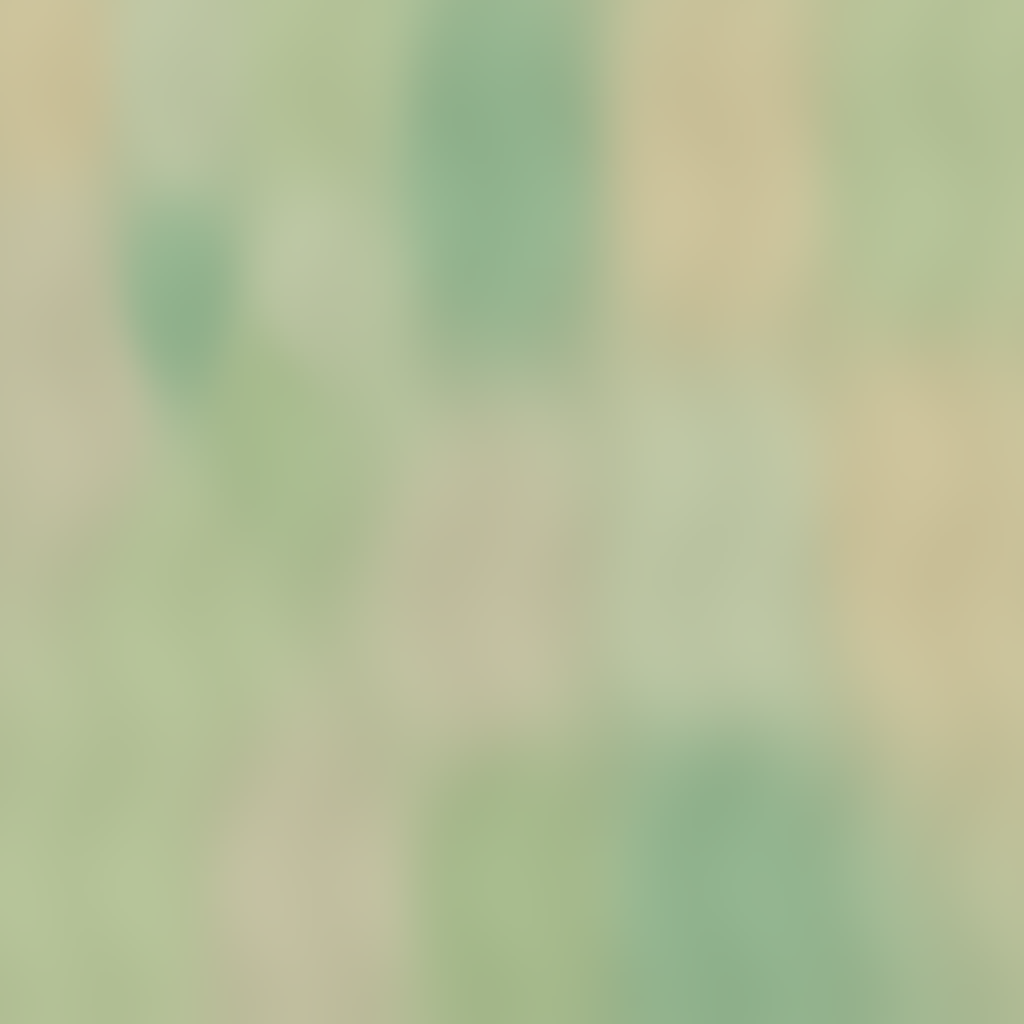
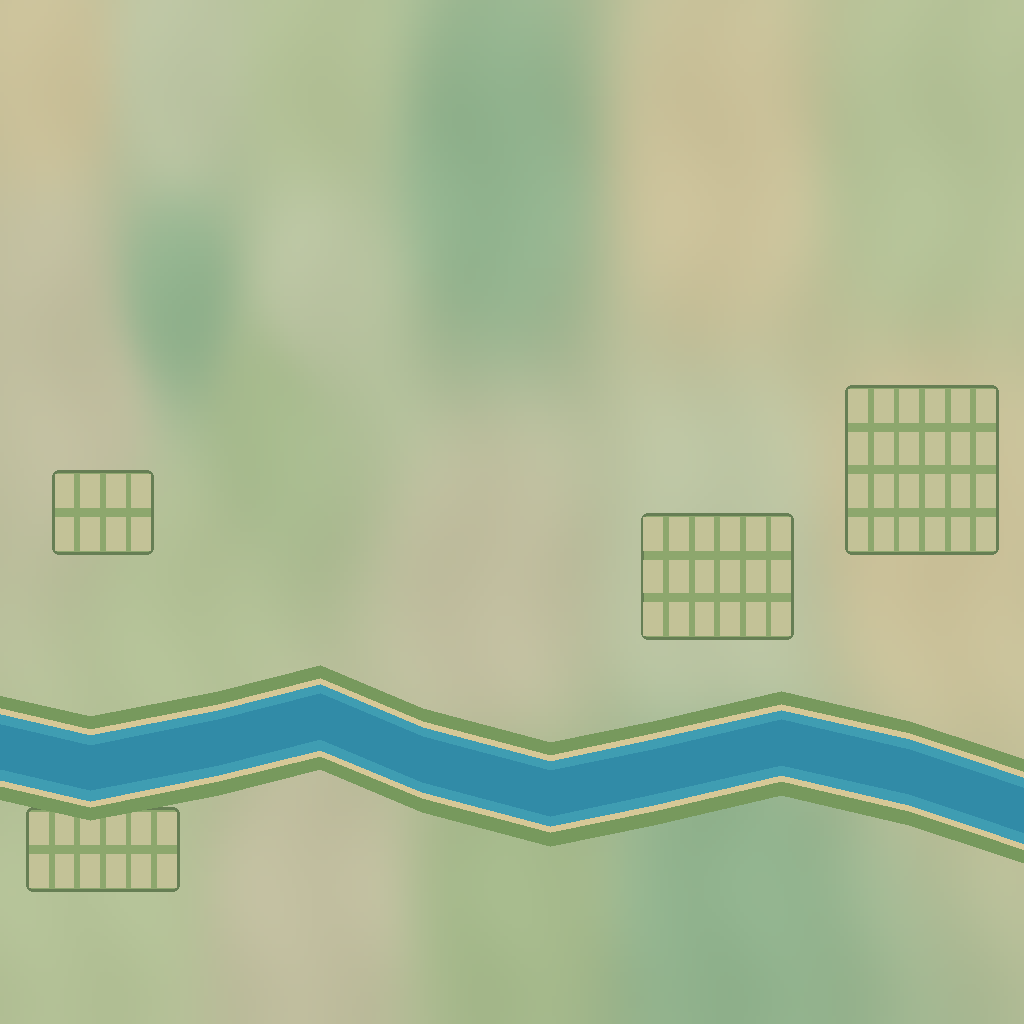
Shape the Osogbo atlas around riverside estates and recognizable landmarks

diff --git a/src/components/map/R3FTownSurface.tsx b/src/components/map/R3FTownSurface.tsx
@@ -1,3 +1,5 @@
+import { estateHomes, inEstate, riverOffset, hasSignatureLandmark } from "./atlas-parcels";
+import { SignatureLandmark } from "./SignatureLandmark";
 import { MapPointerGesture } from "./map-pointer-gesture";
 import { MapMarkerLayout } from "./MapMarkerLayout";
 import { DistrictZones } from "./DistrictZones";
@@ -295,14 +297,19 @@ export function R3FTownSurface(props: Props) {
 
     town.grid.rows.forEach((row, z) => {
       Array.from(row).forEach((tile, x) => {
-        if (tile !== "g") return;
+        if (
+          tile !== "g" ||
+          inEstate(x + 0.5, z + 0.5) ||
+          Math.abs(riverOffset(x + 0.5, z + 0.5)) < 1.1
+        )
+          return;
         if (occupied.has(`${x},${z}`)) return;
 
         // Deterministic variation without random changes on every render.
         const seed = (x * 17 + z * 31) % 100;
 
         // Avoid overly dense vegetation.
-        if (seed > 38) return;
+        if (seed > (Math.abs(riverOffset(x + 0.5, z + 0.5)) < 2.1 ? 88 : 22)) return;
 
         result.push({
           position: [point(x + 0.5, z + 0.5)[0], point(x + 0.5, z + 0.5)[2]],
@@ -315,8 +322,8 @@ export function R3FTownSurface(props: Props) {
     return result;
   }, []);
   const residentialHomes = useMemo(
-    () =>
-      townResidentialLayout({
+    () => [
+      ...townResidentialLayout({
         rows: town.grid.rows,
         buildings: town.grid.buildings,
         landmarks: town.landmarks,
@@ -331,7 +338,19 @@ export function R3FTownSurface(props: Props) {
             (property) => [property.position[0], property.position[2]] as [number, number],
           ),
         ],
-      }),
+      }).filter((h) => !inEstate(h.x, h.z) && Math.abs(riverOffset(h.x, h.z)) > 1.35),
+      ...estateHomes().filter(
+        (h) =>
+          !town.landmarks.some((l) => Math.hypot(h.x - l.grid.x, h.z - l.grid.z) < 1.15) &&
+          !town.grid.buildings.some(
+            (b) => Math.abs(h.x - b.x - 0.5) < 1.35 && Math.abs(h.z - b.z - 0.5) < 1.35,
+          ) &&
+          !(props.properties ?? []).some((p) => {
+            const [x, , z] = point(h.x, h.z);
+            return Math.hypot(x - p.position[0], z - p.position[2]) < cell * 1.15;
+          }),
+      ),
+    ],
     [trees, busStops, roadSigns, props.properties],
   );
   const select = (event: ThreeEvent<MouseEvent> | undefined, action: () => void) => {
@@ -437,21 +456,30 @@ export function R3FTownSurface(props: Props) {
             <WorldInstances
               tone="wall"
               castShadow={false}
-              items={town.grid.plotCells.map(([x, z]) => ({
-                position: [point(x!, z!)[0], 0.015, point(x!, z!)[2]],
-                scale: [cell, 0.03, cell],
-              }))}
+              items={town.grid.plotCells
+                .filter(([x, z]) => Math.abs(riverOffset(x!, z!)) > 1.35 && !inEstate(x!, z!))
+                .map(([x, z]) => ({
+                  position: [point(x!, z!)[0], 0.015, point(x!, z!)[2]],
+                  scale: [cell, 0.03, cell],
+                }))}
             />
             <WorldTrees positions={trees} />
             <HouseBlocks3D homes={residentialHomes} point={point} cell={cell} />
-            {town.grid.buildings.map((building) => (
-              <TownBuilding3D
-                key={`building-${building.x}-${building.z}`}
-                building={building}
-                position={point(building.x + 0.5, building.z + 0.5)}
-                cell={cell}
-              />
-            ))}
+            {town.grid.buildings
+              .filter((b) => !hasSignatureLandmark(b.placeId))
+              .map((building) => (
+                <TownBuilding3D
+                  key={`building-${building.x}-${building.z}`}
+                  building={building}
+                  position={point(building.x + 0.5, building.z + 0.5)}
+                  cell={cell}
+                />
+              ))}
+            {town.landmarks
+              .filter((p) => hasSignatureLandmark(p.id))
+              .map((p) => (
+                <SignatureLandmark key={p.id} id={p.id} position={placeAnchor(p)} cell={cell} />
+              ))}
             <LockedPlaces3D
               places={props.lockedPlaces ?? []}
               cellSize={cell}

diff --git a/src/components/map/SignatureLandmark.tsx b/src/components/map/SignatureLandmark.tsx
@@ -1,0 +1,106 @@
+import { WorldInstances, type WorldInstance } from "../3d/WorldScene";
+
+import { atlasMarkets } from "./atlas-parcels";
+const box = (x: number, y: number, z: number, w: number, h: number, d: number): WorldInstance => ({
+  position: [x, y, z],
+  scale: [w, h, d],
+});
+const bays = Array.from(
+  { length: 9 },
+  (_, i) => [((i % 3) - 1) * 0.52, (Math.floor(i / 3) - 1) * 0.43] as const,
+);
+function SportsGround() {
+  return (
+    <>
+      <mesh scale={[1.5, 1, 0.95]} position={[0, 0.12, 0]}>
+        <cylinderGeometry args={[1.1, 1.18, 0.24, 40]} />
+        <meshStandardMaterial color="#bc7960" />
+      </mesh>
+      <mesh scale={[1.45, 1, 0.85]} position={[0, 0.25, 0]}>
+        <cylinderGeometry args={[0.9, 0.9, 0.04, 40]} />
+        <meshStandardMaterial color="#466f40" />
+      </mesh>
+      <WorldInstances items={[box(0, 0.28, 0, 1.9, 0.02, 0.98)]} tone="cityLawn" color="#69a65b" />
+      <WorldInstances
+        items={[
+          box(0, 0.3, 0, 0.025, 0.01, 0.98),
+          box(0, 0.32, -0.5, 2, 0.05, 0.04),
+          box(0, 0.32, 0.5, 2, 0.05, 0.04),
+        ]}
+        tone="linen"
+      />
+    </>
+  );
+}
+export function SignatureLandmark({
+  id,
+  position,
+  cell,
+}: {
+  id: string;
+  position: [number, number, number];
+  cell: number;
+}) {
+  return (
+    <group name={id} position={position} scale={cell}>
+      {id === "osogbo-township-stadium" ? (
+        <SportsGround />
+      ) : id === "osun-mall" ? (
+        <>
+          <WorldInstances
+            items={[
+              box(0, 0.35, 0, 1.85, 0.7, 1.22),
+              box(-0.72, 0.22, 0.69, 0.46, 0.44, 0.4),
+              box(0.72, 0.22, 0.69, 0.46, 0.44, 0.4),
+            ]}
+            tone="linen"
+          />
+          <WorldInstances items={[box(0, 0.73, 0, 1.9, 0.08, 1.28)]} tone="roofLight" />
+          <WorldInstances
+            items={[box(0, 0.81, 0, 1.15, 0.13, 0.56), box(0, 0.37, 0.62, 1.6, 0.38, 0.04)]}
+            tone="glass"
+          />
+        </>
+      ) : atlasMarkets.has(id) ? (
+        <>
+          <WorldInstances items={[box(0, 0.035, 0, 1.78, 0.07, 1.54)]} tone="clay" />
+          <WorldInstances
+            items={bays.map(([x, z]) => box(x, 0.16, z, 0.35, 0.28, 0.24))}
+            tone="timber"
+          />
+          {["#b55d41", "#dfae58", "#407c70"].map((color, row) => (
+            <WorldInstances
+              key={color}
+              items={bays
+                .slice(row * 3, row * 3 + 3)
+                .map(([x, z]) => box(x, 0.37, z, 0.47, 0.12, 0.33))}
+              tone="rust"
+              color={color}
+            />
+          ))}
+        </>
+      ) : (
+        <>
+          <WorldInstances items={[box(0, 0.04, 0, 1.75, 0.08, 1.35)]} tone="concrete" />
+          <WorldInstances
+            items={[
+              box(0, 0.4, -0.45, 1.72, 0.12, 0.35),
+              box(-0.7, 0.22, -0.45, 0.09, 0.36, 0.09),
+              box(0.7, 0.22, -0.45, 0.09, 0.36, 0.09),
+            ]}
+            tone="indigo"
+          />
+          <WorldInstances
+            items={[-0.56, 0, 0.56].map((x) => box(x, 0.18, 0.18, 0.29, 0.26, 0.64))}
+            tone="rust"
+            color="#e3a735"
+          />
+          <WorldInstances
+            items={[-0.56, 0, 0.56].map((x) => box(x, 0.32, 0.3, 0.24, 0.04, 0.19))}
+            tone="glass"
+          />
+        </>
+      )}
+    </group>
+  );
+}

diff --git a/src/components/map/atlas-parcels.ts b/src/components/map/atlas-parcels.ts
@@ -1,0 +1,32 @@
+import parcels from "@/data/osogbo-atlas-parcels.json";
+import type { TownInfillHome } from "./town-residential-layout";
+
+export function riverOffset(x: number, z: number) {
+  const end = parcels.river.findIndex((point) => point[0]! >= x);
+  const b = parcels.river[Math.max(1, end < 0 ? parcels.river.length - 1 : end)]!;
+  const a = parcels.river[Math.max(0, parcels.river.indexOf(b) - 1)]!;
+  return z - (a[1]! + ((b[1]! - a[1]!) * (x - a[0]!)) / (b[0]! - a[0]!));
+}
+
+export const inEstate = (x: number, z: number) =>
+  parcels.estates.some(
+    (e) => x >= e.x - 0.5 && x < e.x + e.columns - 0.5 && z >= e.z - 0.5 && z < e.z + e.rows - 0.5,
+  );
+
+export function estateHomes(): TownInfillHome[] {
+  return parcels.estates.flatMap((e) =>
+    Array.from({ length: e.columns * e.rows }, (_, i) => ({
+      x: e.x + (i % e.columns),
+      z: e.z + Math.floor(i / e.columns),
+      districtId: e.districtId,
+      style: e.style as TownInfillHome["style"],
+      rotation: (Math.floor(i / e.columns) % 2) * Math.PI,
+      floors: e.style === "apartment" ? 3 : 1,
+    })),
+  );
+}
+
+export const atlasMarkets = new Set(["oja-oba-market", "town-market"]);
+const transit = new Set(["east-transit-terminal", "transit-park"]);
+export const hasSignatureLandmark = (id: string) =>
+  atlasMarkets.has(id) || transit.has(id) || id === "osogbo-township-stadium" || id === "osun-mall";

diff --git a/src/components/map/OsogboAtlas.tsx b/src/components/map/OsogboAtlas.tsx
@@ -1,3 +1,4 @@
+import { hasSignatureLandmark } from "./atlas-parcels";
 import { useMemo } from "react";
 import { useLoader } from "@react-three/fiber";
 import { SRGBColorSpace, TextureLoader } from "three";
@@ -38,7 +39,7 @@ export function AtlasPlaceModels({
     const platforms: WorldInstance[] = [],
       crosses: WorldInstance[] = [];
     for (const place of places) {
-      if (built.has(place.id)) continue;
+      if (built.has(place.id) || hasSignatureLandmark(place.id)) continue;
       const [x, , z] = point(place.grid.x, place.grid.z);
       const box = (
         dx: number,

diff --git a/scripts/bake-osogbo-atlas.py b/scripts/bake-osogbo-atlas.py
@@ -35,4 +35,23 @@ for z,row in enumerate(rows):
             draw.rectangle((round(x*size/width), round(z*size/height),
                             round((x+1)*size/width)-1, round((z+1)*size/height)-1),
                            fill="#71acb5")
+parcels = json.loads((root / "src/data/osogbo-atlas-parcels.json").read_text())
+def px(x, z):
+    return (round((x+.5)*size/width), round((z+.5)*size/height))
+
+for e in parcels["estates"]:
+    x,z = e["x"],e["z"]
+    draw.rounded_rectangle([px(x-.48,z-.48), px(x+e["columns"]-.52,z+e["rows"]-.52)],
+                           radius=7, fill="#8da76d", outline="#667e54", width=3)
+    for r in range(e["rows"]):
+        for c in range(e["columns"]):
+            draw.rectangle([px(x+c-.37,z+r-.38),px(x+c+.37,z+r+.38)],fill="#c3c297")
+river = parcels["river"]
+def ribbon(lo, hi, colour):
+    draw.polygon([px(x,z+lo) for x,z in river]+[px(x,z+hi) for x,z in reversed(river)], fill=colour)
+half = parcels["riverHalfWidth"]
+ribbon(-half-0.44,half+0.46,"#77995d")
+ribbon(-half-0.14,half+0.14,"#d6c897")
+ribbon(-half,half,"#3f9db2")
+ribbon(-half+0.22,half-0.25,"#318ba7")
 image.save(root / "public/maps/osogbo_topdown.png", optimize=True)
